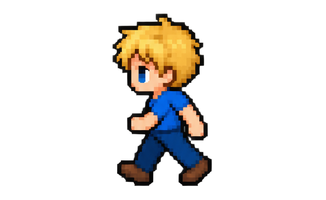
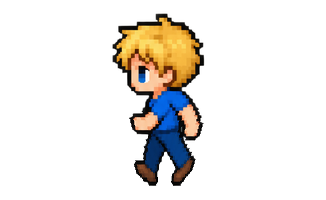
feat: Boss startet über großes wackelndes Grasbüschel ganz unten; Seiten-Lauf sichtbar (Frame 2 Beine zusammen)

Changed region(s): [[0.3374, 0.54, 0.6748, 0.93]]

diff --git a/js/world.js b/js/world.js
@@ -37,7 +37,8 @@ export function makeWorld({ ctx, audio, storage, onEncounter, onEnterHouse }) {
     if (allMaxed(counts)) {
       if (storage.isWon()) { spawns = []; return; }
       if (!spawns.some(s => s.id === BOSS_ID)) {
-        spawns = [{ x: 0.5 * S, y: 0.55 * S, id: BOSS_ID, phase: 0, boss: true }];
+        // großes Grasbüschel ganz unten -> reingehen startet den Bossfight
+        spawns = [{ x: 0.5 * S, y: 0.90 * S, id: BOSS_ID, phase: 0, boss: true }];
       }
       return;
     }
@@ -77,7 +78,8 @@ export function makeWorld({ ctx, audio, storage, onEncounter, onEnterHouse }) {
     wasInDoor = inDoor;
 
     for (const s of spawns) {
-      if (hitsGrass(player, s, GRASS_HIT_RADIUS)) {
+      const rad = s.boss ? GRASS_HIT_RADIUS * 1.8 : GRASS_HIT_RADIUS;
+      if (hitsGrass(player, s, rad)) {
         audio.play("encounter");
         const id = s.id;
         spawns = spawns.filter(x => x !== s);
@@ -94,14 +96,19 @@ export function makeWorld({ ctx, audio, storage, onEncounter, onEnterHouse }) {
 
     for (const s of spawns) {
       if (s.boss) {
-        const spr = getImg("pk11");
-        const pulse = 0.6 + 0.4 * Math.abs(Math.sin(t * 3));
-        ctx.save();
-        ctx.shadowColor = "rgba(255,210,50," + pulse + ")";
-        ctx.shadowBlur = 55;
-        const size = 0.26 * S, ar = spr && spr.height ? spr.width / spr.height : 1;
-        if (spr) ctx.drawImage(spr, s.x - size * ar / 2, s.y - size, size * ar, size);
-        ctx.restore();
+        // doppelt großes, wackelndes Grasbüschel (keine kleinen mehr)
+        const sway = Math.sin(t * 10 + s.phase) * 24;
+        ctx.strokeStyle = "#2f7d22"; ctx.lineWidth = 24; ctx.lineCap = "round";
+        for (let i = -2; i <= 2; i++) {
+          ctx.beginPath();
+          ctx.moveTo(s.x + i * 28, s.y + 64);
+          ctx.lineTo(s.x + i * 28 + sway, s.y - 64);
+          ctx.stroke();
+        }
+        ctx.fillStyle = "rgba(255,255,150," + (0.4 + 0.6 * Math.abs(Math.sin(t * 8 + s.phase))) + ")";
+        for (const sp of [[54, -66], [-50, -26], [70, 12], [0, -80]]) {
+          ctx.beginPath(); ctx.arc(s.x + sp[0], s.y + sp[1], 10, 0, Math.PI * 2); ctx.fill();
+        }
         continue;
       }
       const w = Math.sin(t * 12 + s.phase) * 12;

diff --git a/tools/process_assets.py b/tools/process_assets.py
@@ -150,3 +150,24 @@ for idx, (fr, cx) in enumerate(zip(trimmed, cxs)):
     canvas = canvas.resize((int(canvasW * scale), 200), Image.LANCZOS)
     canvas.save(os.path.join(OUT, "player", f"{r}_{c}.png"))
 print("player frames", cols * rows, "canvas", (int(canvasW * scale), 200))
+
+# Seiten-Frame 1_1: Beine zusammenschieben (nach unten hin stärker),
+# damit sich beim Laufen "gespreizt <-> zusammen" abwechselt = sichtbarer Schritt.
+def legs_together(img, f_min=0.5):
+    a = np.array(img); H, W = a.shape[:2]
+    ys, xs = np.nonzero(a[:, :, 3] > 20)
+    cx = float(xs.mean()); top = ys.min(); bot = ys.max()
+    leg_top = top + 0.55 * (bot - top)  # ab Hüfte
+    out = np.zeros_like(a)
+    for y in range(H):
+        f = 1.0 if y <= leg_top else 1 - (1 - f_min) * ((y - leg_top) / max(1, (bot - leg_top)))
+        f = max(f_min, f)
+        for x in range(W):
+            sx = int(round(cx + (x - cx) / f))
+            if 0 <= sx < W:
+                out[y, x] = a[y, sx]
+    return Image.fromarray(out)
+
+p11 = os.path.join(OUT, "player", "1_1.png")
+legs_together(Image.open(p11).convert("RGBA")).save(p11)
+print("legs_together -> 1_1.png")
